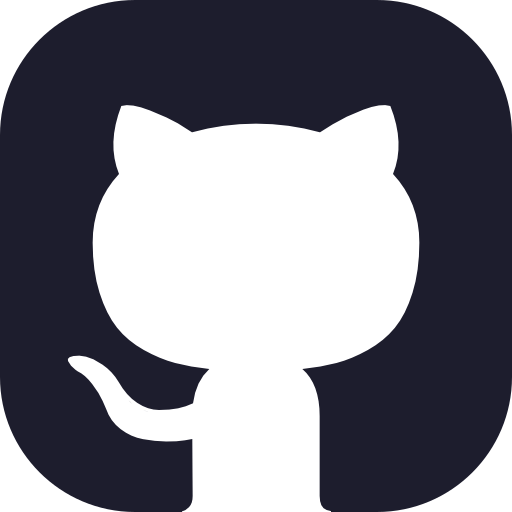
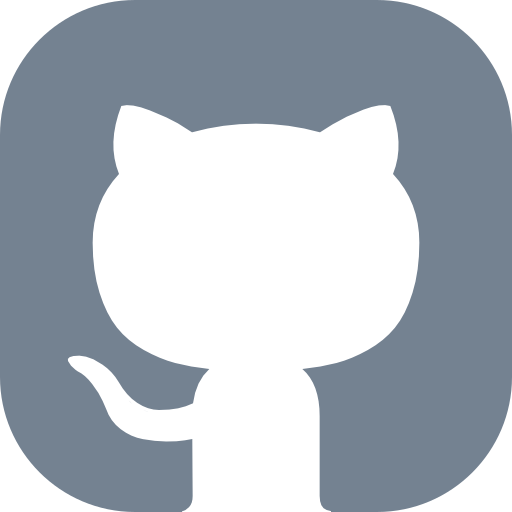
style: change footer button color and scale amount on hover

diff --git a/public/css/style.css b/public/css/style.css
@@ -897,7 +897,7 @@ body {
     transition: all 0.1s ease;
 }
 #footer a:hover {
-    transform: scale(1.05);
+    transform: scale(1.1);
 }
 
 #linkedin-btn:hover img {
